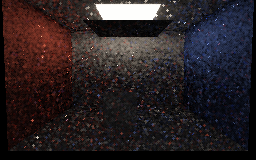
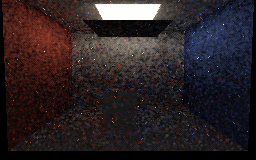
Render capped-history replay with honest raw and preview images

diff --git a/Exhibits/LightCompute/Code/PathReplayCapture.h b/Exhibits/LightCompute/Code/PathReplayCapture.h
@@ -76,8 +76,9 @@ LightComputeArchive ReplayRoom(float BlockShift)
 struct ReplayCaptureResult
 {
     std::vector<std::array<float,4>> Pixels;
+    std::vector<LightComputeReceiver> Guides;
     double WholeMean = 0, FloorMean = 0;
-    uint32_t Accepted = 0, SpatialLinks = 0;
+    uint32_t Accepted = 0, SpatialLinks = 0, HistoryCap = 0;
     bool Reset = false;
 };
 ReplayCaptureResult CaptureReplaySequence(LightComputeSubmission& Compute, const LightComputeArchive& Scene,
@@ -94,7 +95,7 @@ ReplayCaptureResult CaptureReplaySequence(LightComputeSubmission& Compute, const
         if (Frame == 0)
         {
             Result.Accepted = Counters[20]; Result.SpatialLinks = Counters[22];
-            Result.Reset = Compute.ReplayLastReset;
+            Result.Reset = Compute.ReplayLastReset; Result.HistoryCap = Compute.ReplayLastHistoryCap;
         }
         if (Frame >= Frames / 2)
         {
@@ -121,7 +122,44 @@ ReplayCaptureResult CaptureReplaySequence(LightComputeSubmission& Compute, const
         }
     Result.WholeMean /= Result.Pixels.size();
     Result.FloorMean /= FloorCount;
+    Result.Guides.resize(Scene.Receivers.size());
+    std::memcpy(Result.Guides.data(), Compute.Buffers[1].Address, Result.Guides.size() * sizeof(LightComputeReceiver));
     return Result;
+}
+// Small geometry-guided linear-RGB blur for display only. It is not used by any numerical validation.
+std::vector<std::array<float,4>> FilterReplayPreview(const ReplayCaptureResult& Image, uint32_t Width, uint32_t Height)
+{
+    std::vector<std::array<float,4>> Filtered = Image.Pixels;
+    constexpr int Radius = 4;
+    constexpr double SigmaSquared = 4.0;
+    for (uint32_t Y = 0; Y < Height; ++Y)
+        for (uint32_t X = 0; X < Width; ++X)
+        {
+            const size_t Index = size_t(Y) * Width + X;
+            const auto& Centre = Image.Guides[Index];
+            if (Centre.PositionHit[3] == 0 || Centre.MotionPositionToken[3] <= 0) continue;
+            std::array<double,3> Total{};
+            double Sum = 0;
+            for (int DY = -Radius; DY <= Radius; ++DY)
+                for (int DX = -Radius; DX <= Radius; ++DX)
+                {
+                    const int PX = int(X) + DX, PY = int(Y) + DY;
+                    if (PX < 0 || PY < 0 || PX >= int(Width) || PY >= int(Height)) continue;
+                    const size_t Near = size_t(PY) * Width + size_t(PX);
+                    const auto& Other = Image.Guides[Near];
+                    const double Dot = Centre.NormalRoughness[0]*Other.NormalRoughness[0] +
+                                       Centre.NormalRoughness[1]*Other.NormalRoughness[1] +
+                                       Centre.NormalRoughness[2]*Other.NormalRoughness[2];
+                    if (Other.PositionHit[3] == 0 || Centre.MotionPositionToken[3] != Other.MotionPositionToken[3] ||
+                        Dot < .99) continue;
+                    const double Weight = std::exp(-double(DX*DX + DY*DY) / (2*SigmaSquared));
+                    for (uint32_t C = 0; C < 3; ++C) Total[C] += Weight * Image.Pixels[Near][C];
+                    Sum += Weight;
+                }
+            if (Sum > 0)
+                for (uint32_t C = 0; C < 3; ++C) Filtered[Index][C] = float(Total[C] / Sum);
+        }
+    return Filtered;
 }
 void CaptureReplayRooms(const char* Driver, const std::string& Shaders, const std::string& Directory)
 {
@@ -133,22 +171,31 @@ void CaptureReplayRooms(const char* Driver, const std::string& Shaders, const st
     Compute.Prepare(Open, Shaders, false, false, false, false, true);
     const uint32_t Frames = 48;
     const auto One = CaptureReplaySequence(Compute, Open, 1, 1000, true, Frames);
+    std::printf("ROOM completed one-hit open sequence\n"); std::fflush(stdout);
     const auto Four = CaptureReplaySequence(Compute, Open, 4, 2000, true, Frames);
+    std::printf("ROOM completed four-hit open sequence\n"); std::fflush(stdout);
     const auto Occluded = CaptureReplaySequence(Compute, Blocked, 4, 3000, false, Frames);
+    std::printf("ROOM completed four-hit blocked sequence\n"); std::fflush(stdout);
     const auto Reopened = CaptureReplaySequence(Compute, Open, 4, 4000, false, Frames);
+    std::printf("ROOM completed four-hit reopened sequence\n"); std::fflush(stdout);
     Require(!Occluded.Reset && !Reopened.Reset && Occluded.Accepted > 0 && Reopened.Accepted > 0 &&
-                Occluded.SpatialLinks > 0 && Reopened.SpatialLinks > 0, "Moving-room capture did not retain histories");
+                Occluded.SpatialLinks > 0 && Reopened.SpatialLinks > 0 && Occluded.HistoryCap == 1 &&
+                Reopened.HistoryCap == 1, "Moving-room capture did not retain and cap histories");
     std::filesystem::create_directories(Directory);
     WriteImage(Directory + "/ReplayRoomOne.ppm", One.Pixels, Open.Width, Open.Height);
     WriteImage(Directory + "/ReplayRoomOpen.ppm", Four.Pixels, Open.Width, Open.Height);
     WriteImage(Directory + "/ReplayRoomBlocked.ppm", Occluded.Pixels, Open.Width, Open.Height);
     WriteImage(Directory + "/ReplayRoomReopened.ppm", Reopened.Pixels, Open.Width, Open.Height);
+    WriteImage(Directory + "/ReplayRoomOnePreview.ppm", FilterReplayPreview(One, Open.Width, Open.Height), Open.Width, Open.Height);
+    WriteImage(Directory + "/ReplayRoomOpenPreview.ppm", FilterReplayPreview(Four, Open.Width, Open.Height), Open.Width, Open.Height);
+    WriteImage(Directory + "/ReplayRoomBlockedPreview.ppm", FilterReplayPreview(Occluded, Open.Width, Open.Height), Open.Width, Open.Height);
+    WriteImage(Directory + "/ReplayRoomReopenedPreview.ppm", FilterReplayPreview(Reopened, Open.Width, Open.Height), Open.Width, Open.Height);
     std::printf("ROOM_CAPTURE frames_each=%u averaged_last=%u one_floor=%.9g open_floor=%.9g "
                 "blocked_floor=%.9g reopened_floor=%.9g\n", Frames, Frames/2, One.FloorMean, Four.FloorMean,
                 Occluded.FloorMean, Reopened.FloorMean);
-    std::printf("ROOM_MOTION blocked_accepted=%u reopened_accepted=%u spatial_links=%u/%u reset=%u/%u\n",
+    std::printf("ROOM_MOTION blocked_accepted=%u reopened_accepted=%u spatial_links=%u/%u reset=%u/%u cap=%u/%u\n",
                 Occluded.Accepted, Reopened.Accepted, Occluded.SpatialLinks, Reopened.SpatialLinks,
-                Occluded.Reset ? 1u : 0u, Reopened.Reset ? 1u : 0u);
+                Occluded.Reset ? 1u : 0u, Reopened.Reset ? 1u : 0u, Occluded.HistoryCap, Reopened.HistoryCap);
     Require(Four.FloorMean > One.FloorMean && Four.FloorMean > Occluded.FloorMean &&
                 Reopened.FloorMean > Occluded.FloorMean, "Rendered floor did not respond to path depth or moving blocker");
     std::printf("PASS four disclosed synthetic Vulkan readbacks; display exposure=.45 gamma=2.2\n");

diff --git a/Exhibits/LightCompute/Code/PathReplayGpuValidation.h b/Exhibits/LightCompute/Code/PathReplayGpuValidation.h
@@ -244,6 +244,20 @@ void ValidatePathReplayGpu(const char* Driver, const std::string& Shaders)
     std::printf("REPLAY_GUARDS zero_floor=%u metallic=%u corrupt_bvh=%u\n", RejectedFloor ? 1u : 0u,
                 RejectedMaterial ? 1u : 0u, RejectedBvh ? 1u : 0u);
     Require(RejectedFloor && RejectedMaterial && RejectedBvh, "Replay domain guards did not reject invalid input");
+    ReplayCaptureResult PreviewFixture;
+    PreviewFixture.Pixels = {{1,0,0,1},{3,0,0,1},{0,0,3,1},{0,1,0,1}};
+    PreviewFixture.Guides.resize(4);
+    for (uint32_t I = 0; I < 3; ++I)
+    {
+        PreviewFixture.Guides[I].PositionHit[3] = 1;
+        PreviewFixture.Guides[I].NormalRoughness = {0,0,1,0};
+        PreviewFixture.Guides[I].MotionPositionToken[3] = I == 2 ? 2 : 1;
+    }
+    const auto Preview = FilterReplayPreview(PreviewFixture, 4, 1);
+    Require(Preview[0][0] > 1 && Preview[0][0] < 3 && Preview[1][0] > 1 && Preview[1][0] < 3 &&
+                Preview[2][2] == 3 && Preview[2][0] == 0 && Preview[3][1] == 1,
+            "Display filter mixed surface tokens or missed its smoothing range");
+    std::printf("REPLAY_PREVIEW_FILTER same_surface_smoothed=1 cross_surface_rejected=1 background_preserved=1\n");
     std::printf("PASS bounded diffuse replay with moving occluder; general materials and production frame remain open\n");
 }
 } // namespace

diff --git a/Exhibits/LightCompute/Code/LightComputeValidation.cpp b/Exhibits/LightCompute/Code/LightComputeValidation.cpp
@@ -1605,8 +1605,8 @@ void WriteImage(const std::string& Path, const std::vector<std::array<float, 4>>
 #include "DirectSpatialGpuValidation.h"
 #include "StaticDiffuseGpuValidation.h"
 #include "RectangleReconnectionGpuValidation.h"
-#include "PathReplayGpuValidation.h"
 #include "PathReplayCapture.h"
+#include "PathReplayGpuValidation.h"
 } // namespace
 int main(int Count, char** Arguments)
 {

diff --git a/Exhibits/LightCompute/ReplayCaptures.md b/Exhibits/LightCompute/ReplayCaptures.md
@@ -1,30 +1,31 @@
 # Diffuse path-replay captures
 
 These are four **actual Vulkan readbacks** of an authored 24-triangle scene rendered on SwiftShader CPU Vulkan,
-not editor or hardware-GPU captures. These were rendered at checkpoint `6740615`, before the subsequent
-history-count cap; see the capture log for the exact source hashes. Each pixel uses primary visibility plus
-fresh, temporal and spatial random-sequence replay; paths are retraced against the current BVH. Every image averages the final 24 of 48
-frames in linear RGB, then applies exposure 0.45 and display gamma 2.2. No denoising was applied. The noise
-and occasional bright speckles, particularly after reopening, are genuine limitations of the current reuse
-scheme rather than evidence of calibrated quality.
+not editor or hardware-GPU captures. Each pixel uses primary visibility plus fresh, temporal and spatial
+random-sequence replay; paths are retraced against the current BVH. Each image averages the final 24 of 48
+frames in linear RGB, then applies exposure 0.45 and display gamma 2.2.
+
+The images shown below are **filtered previews**: a 9×9 geometry-guided Gaussian averages linear RGB only
+across matching surface tokens and similar normals. It reduces noise but can blur shadows and spread
+bright outliers; it is not used for validation. Follow the links under each image for the original noisy
+readback. Bright speckles are real variance in this prototype, not calibrated detail.
 
 | One hit (open) | Four hits (open) |
 |---|---|
-| ![One-hit room](Images/ReplayRoomOne.png) | ![Four-hit open room](Images/ReplayRoomOpen.png) |
+| ![One-hit room, filtered preview](Images/ReplayRoomOnePreview.png) [Raw readback](Images/ReplayRoomOne.png) | ![Four-hit open room, filtered preview](Images/ReplayRoomOpenPreview.png) [Raw readback](Images/ReplayRoomOpen.png) |
 
 | Four hits, blocker moved under lamp | Four hits, blocker moved away again |
 |---|---|
-| ![Blocked room](Images/ReplayRoomBlocked.png) | ![Reopened room](Images/ReplayRoomReopened.png) |
+| ![Blocked room, filtered preview](Images/ReplayRoomBlockedPreview.png) [Raw readback](Images/ReplayRoomBlocked.png) | ![Reopened room, filtered preview](Images/ReplayRoomReopenedPreview.png) [Raw readback](Images/ReplayRoomReopened.png) |
 
 The moving-blocker sequences reused history without a global reset: 35,886 temporal records were accepted
-on each transition and more than 147,000 spatial links were considered. A fixed lower-image region had mean
-linear luminance 0.4534 for one hit, 0.5636 for four hits open, 0.0202 blocked, and 0.5445 reopened. This is a
-sanity check on the authored scene, not an independent photometric reference or a claim of statistical
-independence between pixels/frames. The images and averages are not the numerical validation fixtures in
+on each transition, the represented-history cap was one on the transition frame, and more than 147,000
+spatial links were considered. A fixed lower-image region in the **unfiltered linear data** had mean luminance
+0.4534 for one hit, 0.5636 for four hits open, 0.0219 blocked, and 0.5379 reopened. This is a sanity check on
+the authored scene, not an independent photometric reference or a claim of statistical independence between
+pixels/frames. These images and averages are not the numerical validation fixtures in
 [PathReplay.md](PathReplay.md).
 
 Reproduce with `bash Exhibits/LightCompute/RunPathReplayCapture.sh` after preparing the pinned tools with
-`python3 Exhibits/LightCompute/Code/Prepare.py`; Pillow is needed for PNG conversion. The original run's
-rendering completed successfully but the converter initially selected a Python without Pillow; conversion was
-resumed from the unmodified PPM readbacks, and the script now selects the repository virtual environment when
-available. [Capture log](Results/PathReplay-capture.txt).
+`python3 Exhibits/LightCompute/Code/Prepare.py`; Pillow is needed for PNG conversion. The script selects the
+repository virtual environment when available. [Capture log and exact source hashes](Results/PathReplay-capture.txt).
